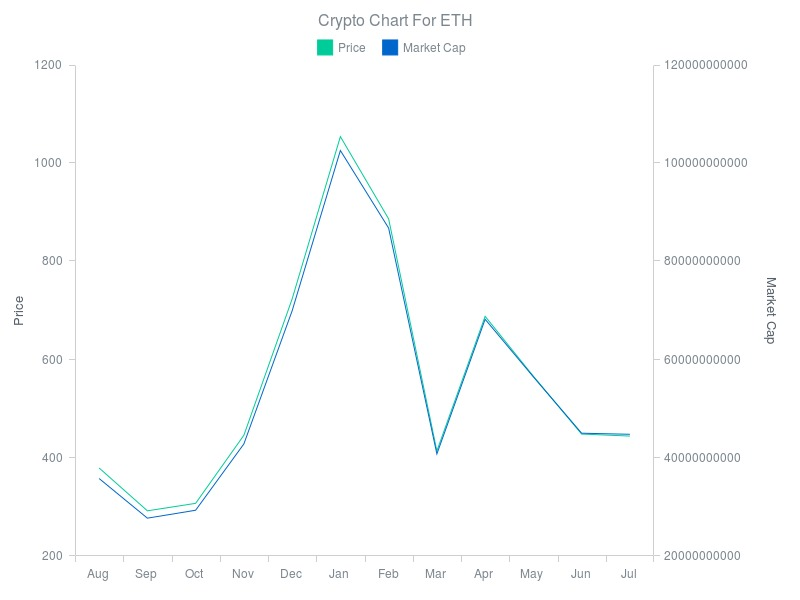
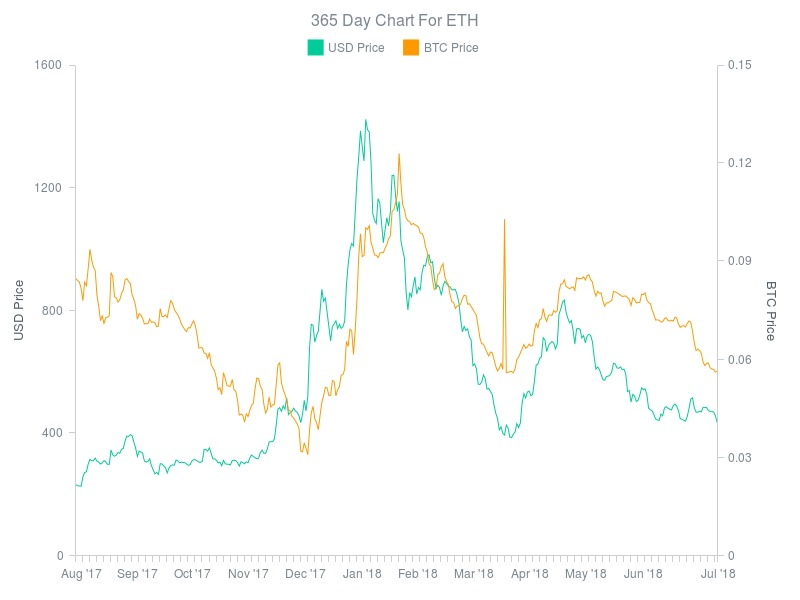
Fixed Charts

diff --git a/bot/helper.js b/bot/helper.js
@@ -1,12 +1,12 @@
-const request = require('request-promise')
-const imageMagickRequest = require('request').defaults({encoding: null});
-const fs = require('fs')
 import {
     baseUrlCC,
     baseUrlCMC,
     frontPageCMC,
     memes,
     chartTimeFrame,
+    day,
+    hour,
+    minute,
     getCoinCMC,
     chartPage,
     help,
@@ -22,16 +22,16 @@ import {
     negativeLow,
     negativeTiny,
     frontPageCC,
-    precision
+    precision, baseUrlChart
 } from '../config/constants'
 import bot, {s3} from './bot'
 import {buildChart} from './chart'
-
+const request = require('request-promise')
+const fs = require('fs')
 const gm = require('gm').subClass({imageMagick: true})
 const params = {
     icon_emoji: ':ideas_by_nature:'
 }
-
 let emojiList, coinDataCC, coinDataCMC
 
 export const showCoins = (textData, listenerString) => {
@@ -119,16 +119,12 @@ export const getFrontPageCMC = async () => {
 
 export const formatCoins = (coinArray) => {
     return coinArray.map((coin) => {
-        if(coin) {
-            return {
+            return coin ? {
                 symbol: coin.short ? coin.short : coin.symbol,
                 price: coin.price ? coin.price : coin.quotes && coin.quotes.USD ? coin.quotes.USD.price : 0,
                 perc: coin.perc ? coin.perc : coin.quotes && coin.quotes.USD ? coin.quotes.USD.percent_change_24h : 0,
                 name: coin.name ? coin.name : coin.long
-            }
-        }
-        else
-            return {}
+            } : {}
     })
 }
 
@@ -197,12 +193,73 @@ export const isMeme = (commands) => {
     return memes.includes(memeString) ? action : false
 }
 
+const getTime = (time) => {
+    switch (time) {
+        case '1':
+            return {
+                time: 1,
+                day: minute,
+                limit: 24 * 60
+            }
+        case '7':
+            return {
+                time: 7,
+                day: hour,
+                limit: 7 * 24
+            }
+        case '30':
+            return {
+                time: 30,
+                day: hour,
+                limit: 30 * 24
+            }
+        case '90':
+            return {
+                time: 90,
+                day: hour,
+                limit: 90 * 24
+            }
+        case '180':
+            return {
+                time: 180,
+                day: day,
+                limit: 180
+            }
+        case '365':
+        default:
+            return {
+                time: 365,
+                day: day,
+                limit: 365
+            }
+    }
+}
+
 export const showChart = async (coin, time) => {
-    const response = await request.get(baseUrlCC + chartPage + coin.toUpperCase()).catch(err => new Error(err))
-    const data = JSON.parse(response)
-    const marketCapGraph = data.market_cap
-    const priceGraph = data.price
-    const chartBuilt = await buildChart(coin, priceGraph, marketCapGraph)
+    console.log('time', time)
+    const isBitcoin = coin.toLowerCase() === 'btc'
+    const timeData = getTime(time)
+    console.log('data', timeData)
+    const responseUSD = await request.get(`${baseUrlChart}${timeData.day}?fsym=${coin.toUpperCase()}&tsym=USD&limit=${timeData.limit}`).catch(err => new Error(err))
+    const dataUSD = JSON.parse(responseUSD)
+    const usdGraph = dataUSD.Data.map((data) => {
+        return [
+            data.time * 1000,
+            data.high
+        ]
+    })
+    let btcGraph
+    if(!isBitcoin) {
+        const responseBTC = await request.get(`${baseUrlChart}${timeData.day}?fsym=${coin.toUpperCase()}&tsym=BTC&limit=${timeData.limit}`).catch(err => new Error(err))
+        const dataBTC = JSON.parse(responseBTC)
+        btcGraph = dataBTC.Data.map((data) => {
+            return [
+                data.time * 1000,
+                data.high
+            ]
+        })
+    }
+    const chartBuilt = await buildChart(coin, timeData, usdGraph, btcGraph)
     if (chartBuilt)
         showImage('chart', 'jpg')
 }

diff --git a/bot/chart.js b/bot/chart.js
@@ -5,36 +5,44 @@ const window = jsdom.window
 const anychart = require('anychart')(window)
 const anychartExport = require('anychart-nodejs')(anychart)
 
-export const buildChart = async (coin, data, data2) => {
-    const combinedArray = anychart.data.set(data.map((dataItem) => {
-        const data2Item = data2.find((data2Item) => data2Item[0] === dataItem[0])
-        return[timeConverter(dataItem[0]), dataItem[1], data2Item[1]]
-    }))
-    const formattedData = combinedArray.mapAs({x: 0, value: 1})
-    const formattedData2 = combinedArray.mapAs({x: 0, value: 2})
-
+export const buildChart = async (coin, timeData, usdData, btcData) => {
     const chart = anychart.line()
-    chart.title(`Crypto Chart For ${coin.toUpperCase()}`)
-    chart.legend(true);
+    chart.title(`${timeData.time} Day Chart For ${coin.toUpperCase()}`)
+    chart.legend(true)
 
+    const usdSetArray = anychart.data.set(usdData.map((dataItem) => {
+        return[dataItem[0], dataItem[1]]
+    }))
+    const formattedData = usdSetArray.mapAs({x: 0, value: 1})
     const yScale1 = anychart.scales.linear();
-    chart.yAxis(0).title("Price");
+    chart.yAxis(0).title("USD Price");
     chart.yAxis(0).scale(yScale1)
     const series1 = chart.line(formattedData)
     series1.normal().stroke('#00cc99')
     series1.yScale(yScale1)
-    series1.name('Price')
+    series1.name('USD Price')
 
-    const yScale2 = anychart.scales.linear();
-    const yAxis2 = chart.yAxis(1);
-    yAxis2.orientation("right");
-    yAxis2.title("Market Cap");
-    yAxis2.scale(yScale2)
-    const series2 = chart.line(formattedData2)
-    series2.normal().stroke('#0066cc')
-    series2.yScale(yScale2)
-    series2.name('Market Cap')
-
+    if(btcData) {
+        const btcSetArray = anychart.data.set(btcData.map((dataItem) => {
+            return [dataItem[0], dataItem[1]]
+        }))
+        const formattedData2 = btcSetArray.mapAs({x: 0, value: 1})
+        const yScale2 = anychart.scales.linear();
+        const yAxis2 = chart.yAxis(1);
+        yAxis2.orientation("right");
+        yAxis2.title("BTC Price");
+        yAxis2.scale(yScale2)
+        const series2 = chart.line(formattedData2)
+        series2.normal().stroke('#FF9900')
+        series2.yScale(yScale2)
+        series2.name('BTC Price')
+    }
+    chart.xAxis(0).labels().offsetX(5)
+    chart.xAxis(0).labels().format(function (){
+        let value = this.value;
+        value = timeConverter(value, timeData)
+        return value;
+    })
     chart.bounds(0, 0, 800, 600)
     chart.container('container')
     chart.draw()
@@ -50,7 +58,7 @@ export const buildChart = async (coin, data, data2) => {
     }))
 }
 
-const timeConverter = (UNIX_timestamp) => {
+const timeConverter = (UNIX_timestamp, timeData) => {
     const a = new Date(UNIX_timestamp)
     const months = ['Jan','Feb','Mar','Apr','May','Jun','Jul','Aug','Sep','Oct','Nov','Dec']
     const year = a.getFullYear()
@@ -59,6 +67,20 @@ const timeConverter = (UNIX_timestamp) => {
     const hour = a.getHours()
     const min = a.getMinutes()
     const sec = a.getSeconds()
+    switch (timeData.time) {
+        case 1:
+            return `${hour}:00`
+        case 7:
+            return `${date}. ${month}`
+        case 30:
+            return `${date}. ${month}`
+        case 90:
+            return `${date}. ${month}`
+        case 180:
+            return `${date}. ${month}`
+        case 365:
+            return `${month} '${year.toString().substr(2)}`
+    }
     const time = month
     return time
 }

diff --git a/config/constants.js b/config/constants.js
@@ -23,6 +23,10 @@ export const startListening = [
 ]
 export const baseUrlCC = 'http://coincap.io/'
 export const baseUrlCMC = 'https://api.coinmarketcap.com/v2/'
+export const baseUrlChart = 'https://min-api.cryptocompare.com/data/'
+export const day = 'histoday'
+export const hour = 'histohour'
+export const minute = 'histominute'
 export const frontPageCC = 'front/'
 export const frontPageCMC = 'listings/'
 export const getCoinCMC = 'ticker/'
@@ -42,18 +46,20 @@ export const precision = 8
 export const help =
     `   *Coinbot's help section*
     
+    cc gets prices from CoinCap
+    cmc gets prices from CoinMarketCap
+    
     cc [symbol] - [symbol]'s price in USD and amount relative to BTC
-    _e.g._  \`cc btc\`
+    _e.g._  \`cc btc\` \`cmc btc\`
     
     cc [symbol1] in [symbol2] - [symbol1]'s price in USD and amount relative to [symbol2]
-    _e.g._  \`cc btc in eth\`
+    _e.g._  \`cc btc in eth\` \`cmc btc in eth\`
     
     cc [symbol1], [symbol2], [symbol...] Send in an array to get multiple values at once
-    _e.g._  \`cc btc, eth, ada\`  \`cc btc, eth, ada in eth\`
+    _e.g._  \`cmc btc, eth, ada\`  \`cc btc, eth, ada in eth\`
    
-   *BETA*
-       
-    cc chart [symbol] - Chart for [symbol] including price and market cap.
+    [time] values for charts can be 1, 7, 30, 90, 180, and 365.  It defaults to 365
+    cc chart [symbol] [time]  - Chart for [symbol] including price compared with USD and BTC.
     `
 export const chartTimeFrame = {
     1: '1day/',
